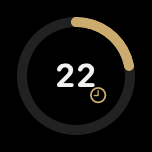
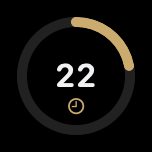
Replay saved Watch selection at observation time and fit assumed circular values (#810)

Changed region(s): [[0.5789, 0.5526, 0.7105, 0.6842], [0.4474, 0.6316, 0.5789, 0.7632]]

diff --git a/Sources/ContextPanelWatchSupport/WatchAccountComplicationPresentation.swift b/Sources/ContextPanelWatchSupport/WatchAccountComplicationPresentation.swift
@@ -20,20 +20,20 @@ public struct WatchAccountComplicationPresentation {
         let horizon = account.horizon(now: now)
         self.horizon = horizon
         quantity = horizon.window.map { AccountNumbers.window($0) } ?? AccountTerms.unknown
-        circularQuantity = horizon.window.map { AccountNumbers.window($0, sign: false) } ?? AccountTerms.unknown
+        circularQuantity = horizon.window.map { AccountNumbers.window($0, sign: false).replacingOccurrences(of: " ", with: "") }
+            ?? AccountTerms.unknown
         colorToken = horizon.isCurrent ? account.metadata.provider.colorToken : .saved
         let state = horizon.isCurrent ? nil : WatchAccountText.state(account, horizon: horizon)
         if horizon.remaining == nil || account.state == .unknown {
             stateSymbol = "questionmark"
-        } else if account.windows.contains(where: { $0.assumption != nil }) {
-            stateSymbol = "arrow.clockwise"
         } else {
             stateSymbol = switch account.state {
             case .stale, .unavailable: "clock"
             case .off: "pause"
             case .notConnected: "icloud.slash"
             case .refreshing: "arrow.clockwise"
-            default: horizon.isCurrent ? nil : "questionmark"
+            default: account.windows.contains(where: { $0.assumption != nil }) ? "questionmark"
+                : horizon.isCurrent ? nil : "questionmark"
             }
         }
         let provider = account.metadata.provider.accountDisplayName
@@ -45,30 +45,19 @@ public struct WatchAccountComplicationPresentation {
     }
 
     private static func focusAccount(_ overview: AccountOverview, now: Date) -> AccountOverview.Account? {
+        if let current = currentFocus(overview, now: now) { return current }
+        let previous = overview.lastObservedSelection()
+        if let focus = currentFocus(previous, now: previous.rankedAt) {
+            return overview.accounts.first { $0.id == focus.id }
+        }
+        return overview.accounts.first
+    }
+
+    private static func currentFocus(_ overview: AccountOverview, now: Date) -> AccountOverview.Account? {
         if let short = overview.runningShort(now: now).first { return short.account }
         let next = Provider.allCases.compactMap { overview.useNext(provider: $0) }
             .max { ($0.horizon(now: now).remaining ?? 0) < ($1.horizon(now: now).remaining ?? 0) }
-        if let current = next ?? overview.closest { return current }
-
-        // Reconstruct the last-good focus from saved normalized evidence, without calling it Use next.
-        let saved = overview.accounts.filter { [.stale, .unavailable].contains($0.state) }
-        let savedRunOut = saved.compactMap { account -> (AccountOverview.Account, Date)? in
-            guard let observed = account.observedAt else { return nil }
-            let long = account.windows.filter { $0.id != account.shortWindow?.id && $0.assumption == nil }
-            let first = long.compactMap { window -> Date? in
-                if window.remainingFraction == 0, (window.naturalResetAt ?? .distantPast) > observed { return observed }
-                return window.projectedRunOut(now: observed)
-            }.min()
-            return first.map { (account, $0) }
-        }.min { $0.1 < $1.1 }?.0
-        if let savedRunOut { return savedRunOut }
-        let savedNext = Provider.allCases.compactMap { provider -> AccountOverview.Account? in
-            let ranking = overview.useNextRanking(provider: provider)
-            guard ranking.basedOnStaleReadings, let id = ranking.entries.first?.accountID else { return nil }
-            return saved.first { $0.id == id }
-        }.max { ($0.horizon(now: now).remaining ?? 0) < ($1.horizon(now: now).remaining ?? 0) }
-        return savedNext ?? saved.max { ($0.horizon(now: now).remaining ?? 0) < ($1.horizon(now: now).remaining ?? 0) }
-            ?? overview.accounts.first
+        return next ?? overview.closest
     }
 }
 
@@ -85,7 +74,7 @@ public enum WatchAccountText {
         let horizon = account.horizon(now: now)
         var parts = [account.metadata.provider.accountDisplayName, account.metadata.label]
         if let window = horizon.window {
-            parts.append(window.label + " " + AccountNumbers.window(window) + " " + AccountTerms.left)
+            parts.append(quantity(window))
         } else {
             parts.append(AccountCapacityState.unknown.displayText)
         }
@@ -93,7 +82,7 @@ public enum WatchAccountText {
         if horizon.isCurrent { parts.append(AccountTerms.outcomeShort(account, horizon, now: now)) }
         for window in account.orderedWindows {
             if window.id != horizon.window?.id {
-                parts.append(window.label + " " + AccountNumbers.window(window) + " " + AccountTerms.left)
+                parts.append(quantity(window))
             }
             if let reset = AccountTerms.reset(window, now: now) { parts.append(window.label + " " + AccountTerms.resets + " " + reset) }
             if let assumption = window.assumption { parts.append(assumption.accessibilityText) }
@@ -107,5 +96,10 @@ public enum WatchAccountText {
         }
         if isNext && horizon.isCurrent { parts.append(AccountTerms.useNext) }
         return parts.joined(separator: ", ")
+    }
+
+    private static func quantity(_ window: AccountOverview.Window) -> String {
+        window.label + " " + (window.remainingFraction == nil ? AccountCapacityState.unknown.displayText
+            : AccountNumbers.window(window) + " " + AccountTerms.left)
     }
 }

diff --git a/Tests/ContextPanelCoreTests/WatchAccountPresentationTests.swift b/Tests/ContextPanelCoreTests/WatchAccountPresentationTests.swift
@@ -175,3 +175,72 @@ func watchSavedFocusKeepsTheLastGoodAccountInsteadOfMetadataOrder(burn: Double?)
         overview: watchAccountOverview(now: watchAccountNow.addingTimeInterval(SnapshotFreshness.appMaximumAge + 1)),
         now: watchAccountNow.addingTimeInterval(SnapshotFreshness.appMaximumAge + 1))?.stateSymbol)
 }
+
+@Test(arguments: [false, true])
+func watchFailedAndStaleFocusReplaysTheOriginalRankingTime(failed: Bool) throws {
+    let limits = [("soon", 60, 24.0), ("later", 30, 144.0)].map { id, used, hours in
+        UsageLimit(provider: .openAI, accountID: id, accountName: id, label: "Weekly", windowLabel: "Weekly",
+            unit: .percent, used: used, limit: 100, resetsAt: watchAccountNow.addingTimeInterval(hours * 3_600),
+            lastUpdatedAt: watchAccountNow)
+    }
+    func overview(now: Date, status: UsageStatus) -> AccountOverview {
+        let reports = limits.map { limit in StoredProviderReport(provider: limit.provider, accountID: limit.accountID,
+            accountName: limit.accountName, generatedAt: watchAccountNow, status: status,
+            errorMessage: status == .failure ? "Sample failure" : nil) }
+        return AccountOverview(snapshot: UsageSnapshot(generatedAt: watchAccountNow, limits: limits), reports: reports, now: now)
+    }
+    let before = try #require(WatchAccountComplicationPresentation(overview: overview(now: watchAccountNow, status: .healthy), now: watchAccountNow))
+    #expect(before.account.metadata.label == "soon")
+    let afterDate = watchAccountNow.addingTimeInterval(2 * 86_400)
+    let saved = overview(now: afterDate, status: failed ? .failure : .healthy)
+    let after = try #require(WatchAccountComplicationPresentation(overview: saved, now: afterDate))
+    #expect(after.account.id == before.account.id)
+    #expect(after.quantity == before.quantity)
+    #expect(!after.horizon.isCurrent)
+    #expect(saved.lastObservedSelection().rankedAt == watchAccountNow)
+    #expect(saved.accounts.allSatisfy { !$0.isReliable })
+}
+
+@Test func watchSavedClosestDoesNotSwitchWhenEveryShortWindowBlocksUseNext() throws {
+    let limits = [0, 1].flatMap { index in ["Weekly", "5-hour"].map { window in
+        UsageLimit(provider: .openAI, accountID: "blocked-\(index)", accountName: "Blocked \(index)", label: window,
+            windowLabel: window, unit: .percent, used: window == "Weekly" ? 10 : 99 - index,
+            limit: 100, resetsAt: watchAccountNow.addingTimeInterval(86_400), lastUpdatedAt: watchAccountNow)
+    } }
+    func overview(_ now: Date) -> AccountOverview {
+        AccountOverview(snapshot: UsageSnapshot(generatedAt: watchAccountNow, limits: limits), reports: [], now: now)
+    }
+    let fresh = overview(watchAccountNow)
+    #expect(fresh.useNext(provider: .openAI) == nil)
+    let before = try #require(WatchAccountComplicationPresentation(overview: fresh, now: watchAccountNow))
+    let later = watchAccountNow.addingTimeInterval(SnapshotFreshness.appMaximumAge + 1)
+    let after = try #require(WatchAccountComplicationPresentation(overview: overview(later), now: later))
+    #expect(after.account.id == before.account.id)
+}
+
+@Test func watchUnknownSpeechUsesAStateWordInsteadOfReadingTheDash() throws {
+    let presentation = try #require(WatchAccountComplicationPresentation(overview: watchAccountOverview(used: [nil]), now: watchAccountNow))
+    #expect(presentation.accessibilityText.contains(AccountCapacityState.unknown.displayText))
+    #expect(!presentation.accessibilityText.contains(AccountTerms.unknown))
+}
+
+@MainActor
+@Test(arguments: [40, 50])
+func watchCircularKeepsAssumedCapacityVisibleInsideSmallRing(side: Int) throws {
+    let limit = UsageLimit(provider: .google, accountID: "sample-fit", accountName: "Sample fit",
+        label: "Weekly", windowLabel: "Weekly", unit: .percent, used: 78, limit: 100,
+        resetsAt: watchAccountNow.addingTimeInterval(-1), lastUpdatedAt: watchAccountNow.addingTimeInterval(-100),
+        freshnessMode: .eventDriven)
+    let overview = AccountOverview(snapshot: UsageSnapshot(generatedAt: watchAccountNow, limits: [limit]), reports: [], now: watchAccountNow)
+    let presentation = try #require(WatchAccountComplicationPresentation(overview: overview, now: watchAccountNow))
+    let renderer = ImageRenderer(content: WatchAccountCircularFace(overview: overview, now: watchAccountNow)
+        .frame(width: CGFloat(side), height: CGFloat(side)).background(.black).environment(\.colorScheme, .dark))
+    renderer.scale = 4
+    let image = try #require(renderer.cgImage)
+    let request = VNRecognizeTextRequest()
+    request.recognitionLevel = .accurate
+    request.usesLanguageCorrection = false
+    try VNImageRequestHandler(cgImage: image).perform([request])
+    let text = (request.results ?? []).compactMap { $0.topCandidates(1).first?.string }.joined(separator: " ")
+    #expect(text.contains(AccountNumbers.percent(presentation.horizon.remaining)), "Visible circular capacity: \(text)")
+}

diff --git a/Sources/ContextPanelWatchSupport/WatchAccountViews.swift b/Sources/ContextPanelWatchSupport/WatchAccountViews.swift
@@ -216,33 +216,44 @@ public struct WatchAccountCircularFace: View {
         let presentation = WatchAccountComplicationPresentation(overview: overview, now: now)
         let horizon = presentation?.horizon
         let token = presentation?.colorToken ?? .tertiary
-        ZStack {
-            Circle().stroke(WatchTokens.color(.track), style: StrokeStyle(lineWidth: 5,
-                dash: horizon?.remaining == nil ? [2, 3] : []))
-            if let horizon, let fraction = horizon.remaining {
-                Circle().trim(from: 0, to: fraction)
-                    .stroke(WatchTokens.color(token), style: StrokeStyle(lineWidth: 5, lineCap: .round))
-                    .rotationEffect(.degrees(-90))
-                if horizon.runsOutBeforeReset {
-                    // A short red mark past what is left: it runs dry before the reset refills it.
-                    let start = min(0.9, fraction + 0.05)
-                    Circle().trim(from: start, to: start + 0.08)
-                        .stroke(WatchTokens.color(.critical), style: StrokeStyle(lineWidth: 5, lineCap: .butt))
+        let numeral = AccountNumbers.percent(horizon?.remaining)
+        let qualifier = presentation?.circularQuantity.replacingOccurrences(of: numeral, with: "") ?? ""
+        GeometryReader { proxy in
+            ZStack {
+                Circle().stroke(WatchTokens.color(.track), style: StrokeStyle(lineWidth: 5,
+                    dash: horizon?.remaining == nil ? [2, 3] : []))
+                if let horizon, let fraction = horizon.remaining {
+                    Circle().trim(from: 0, to: fraction)
+                        .stroke(WatchTokens.color(token), style: StrokeStyle(lineWidth: 5, lineCap: .round))
                         .rotationEffect(.degrees(-90))
-                }
-            }
-            Text(presentation?.circularQuantity ?? AccountTerms.unknown)
-                .font(.system(size: 16, weight: .semibold, design: .rounded)).monospacedDigit()
-                .lineLimit(1)
-                .minimumScaleFactor(0.65)
-                .foregroundStyle(WatchTokens.color(.primary))
-                .overlay(alignment: .bottomTrailing) {
-                    if let symbol = presentation?.stateSymbol {
-                        Image(systemName: symbol).font(.system(size: 8, weight: .semibold))
-                            .foregroundStyle(WatchTokens.color(token)).offset(x: 5, y: 5)
-                            .accessibilityHidden(true)
+                    if horizon.runsOutBeforeReset {
+                        // A short red mark past what is left: it runs dry before the reset refills it.
+                        let start = min(0.9, fraction + 0.05)
+                        Circle().trim(from: start, to: start + 0.08)
+                            .stroke(WatchTokens.color(.critical), style: StrokeStyle(lineWidth: 5, lineCap: .butt))
+                            .rotationEffect(.degrees(-90))
                     }
                 }
+                Text(numeral)
+                    .font(.system(size: 16, weight: .semibold, design: .rounded)).monospacedDigit()
+                    .lineLimit(1)
+                    .minimumScaleFactor(0.65)
+                    .frame(width: proxy.size.width * 0.68)
+                    .foregroundStyle(WatchTokens.color(.primary))
+                if !qualifier.isEmpty {
+                    Text(qualifier).font(.system(size: 10, weight: .semibold))
+                        .foregroundStyle(WatchTokens.color(token))
+                        .offset(y: -proxy.size.height * 0.26)
+                        .accessibilityHidden(true)
+                }
+                if let symbol = presentation?.stateSymbol {
+                    Image(systemName: symbol).font(.system(size: 8, weight: .semibold))
+                        .foregroundStyle(WatchTokens.color(token))
+                        .offset(y: proxy.size.height * 0.28)
+                        .accessibilityHidden(true)
+                }
+            }
+            .frame(width: proxy.size.width, height: proxy.size.height)
         }
         .padding(3)
         .accessibilityElement(children: .ignore)

diff --git a/Sources/ContextPanelCore/AccountOverview.swift b/Sources/ContextPanelCore/AccountOverview.swift
@@ -153,6 +153,24 @@ public struct AccountOverview: Equatable, Sendable {
     public func useNext(provider: Provider) -> Account? {
         useNextRanking(provider: provider).useNextAccountID.flatMap { id in accounts.first { $0.id == id } }
     }
+
+    /// Replay selection at the last observation when a glance surface needs its last-good account.
+    /// This is selection evidence only: render the original accounts with their actual freshness.
+    public func lastObservedSelection() -> AccountOverview {
+        let observed = accounts.compactMap(\.observedAt).max() ?? rankedAt
+        let replay = accounts.map { account -> Account in
+            guard [.stale, .unavailable].contains(account.state) else { return account }
+            let known = !account.windows.isEmpty && account.windows.allSatisfy {
+                $0.remainingFraction != nil && $0.confidence != .unknown && $0.assumption == nil
+            }
+            return Account(metadata: account.metadata, state: known ? .available : .unknown,
+                windows: account.windows, bankedResets: account.bankedResets,
+                bankedState: account.bankedState, observedAt: account.observedAt,
+                providerPlan: account.providerPlan, bankedAdvice: account.bankedAdvice,
+                resetAssessment: account.resetAssessment)
+        }
+        return AccountOverview(accounts: replay, deadlines: deadlines, rankedAt: observed)
+    }
     public var nextDeadline: Deadline? { deadlines.first { $0.state == .available } }
 
     public init(snapshot: UsageSnapshot, reports: [StoredProviderReport], metadata: [AccountDisplayMetadata]? = nil,

diff --git a/docs/design-direction.md b/docs/design-direction.md
@@ -179,12 +179,12 @@ unknown readings draw only the track.
 All four account complication families use one shared focus account: the first
 to run out, otherwise the Use next account with most remaining capacity, then
 the closest account. With only Saved readings, reconstruct the last-good
-run-out or recommendation from saved evidence, then the saved account with most
-capacity, instead of falling back immediately to metadata order.
+run-out, recommendation or closest account using the shared ranking at the
+last observation, instead of falling back immediately to metadata order.
 They derive quantities, forecast and
 freshness from the entry's presentation date. Circular Saved values carry a
 clock mark; inline and corner labels say Saved, while rectangular uses the Saved
-time. Assumed-reset values keep their approximation mark, a refresh symbol and
+time. Assumed-reset values keep their approximation mark, a question mark and
 explicit Assumed wording. Unknown capacity is indeterminate. VoiceOver leads
 with the displayed, named horizon window before describing other windows.
 Inline keeps the account name when it

diff --git a/docs/evidence/810-watch/README.md b/docs/evidence/810-watch/README.md
@@ -21,3 +21,8 @@ The `row-*` images are host `ImageRenderer` captures of the production shared
 Watch views, at 198 points with synthetic long names, Saved and unknown readings.
 They show wrapping and capacity semantics, not watchOS text scaling or placement.
 The operator capture shell is temporary and does not ship in the app.
+
+`circular-assumed-40.png` and `circular-assumed-50.png` stress the production
+circular face with an assumed reset at 40/50 points. The approximation mark and
+uncertainty symbol sit above/below the full numeral inside the ring. These are
+host shared-view captures, not WidgetKit placement proof.
